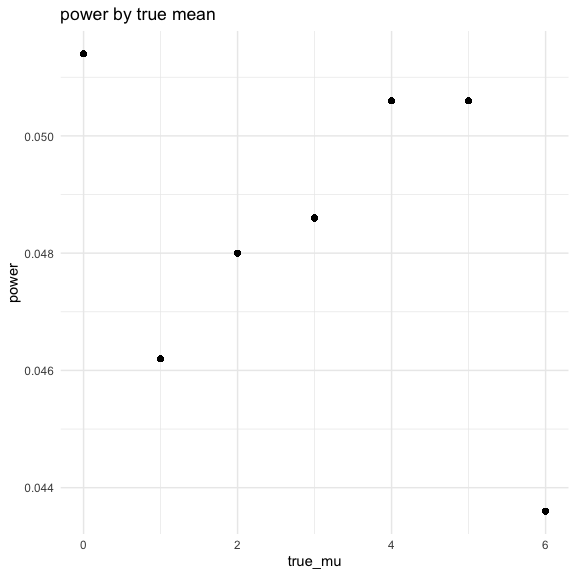
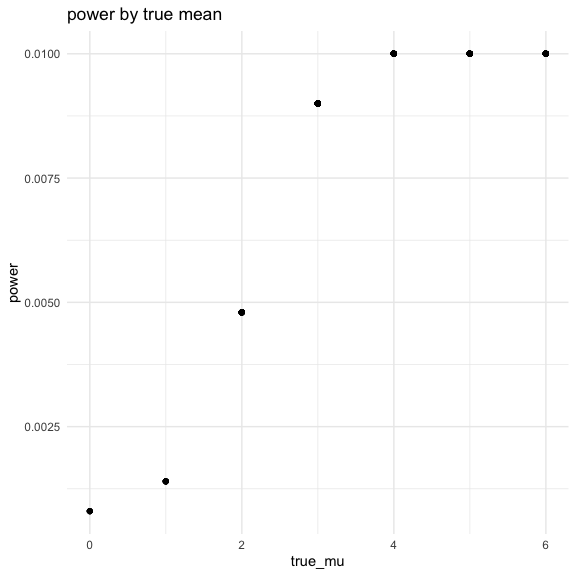
Fixed error in function that gave very weird plots.

diff --git a/p8105_hw5_np2619.md b/p8105_hw5_np2619.md
@@ -423,7 +423,7 @@ Simulation to explore power of a one sample t-test\!\!
 ttest_sim = function(mu) {
   sim_data = 
     tibble(
-    x = rnorm(mean = 0, n = 30, sd = 5),
+    x = rnorm(mean = mu, n = 30, sd = 5),
     )
   
   ttest = t.test(sim_data, mu = 0, alpha = 0.05)
@@ -441,7 +441,7 @@ ttest_sim = function(mu) {
 sim_results =
   tibble(true_mu = c(0:6)) %>% 
   mutate(
-    output_lists = map(.x = true_mu, ~rerun(5000, ttest_sim(mu = .x))),
+    output_lists = map(.x = true_mu, ~rerun(50, ttest_sim(mu = .x))),
     ttest_df = map(output_lists, bind_rows)
   ) %>% 
   select(-output_lists) %>% 
@@ -465,19 +465,22 @@ proportion =
     xlab = "true mean",
     ylab = "power"
   )
+
 proportion
 ```
 
 <img src="p8105_hw5_np2619_files/figure-gfm/unnamed-chunk-11-1.png" width="90%" />
 
-This outcome is very surprising to me. I would expect mu = 6 to be
+I originally had a very strange outcome, but fixed my function to
+produce this plot, which is expected. I would expect mu = 6 to be
 rejected more and have a higher power than all the other mu’s. I would
 expect all others to have decreasing power. I expect this because if
 true mu = 0 and H0: mu = 0, the likely hood of this being false in a
 sample of 5000 is very low, and thus the rejected/power would be a very
 low number. In contrast, if true mu = 6 and it is tested against H0:mu =
 0, we would expect the null to be rejected because they are not supposed
-to be the same, resulting in a higher power proportion.
+to be the same, resulting in a higher power proportion. This plot looks
+like a logarithmic curve.
 
 #### avg estimate of mu on y and true mu on x
 
@@ -499,10 +502,11 @@ avg_mu
 
 <img src="p8105_hw5_np2619_files/figure-gfm/unnamed-chunk-12-1.png" width="90%" />
 
-This is also very unexpected. I would have assumed to see a very direct,
-linear relationship between the average mu and true mu. This graph does
-not reflect this at all. With a normal sample size this large, we would
-expect to see the average average to be what is expected.
+Again, I fixed my function and the unexpected plots were changed to what
+were expected: I have assumed to see a very direct, linear relationship
+between the average mu and true mu. With a normal sample size this
+large, we would expect to see the average average to be what is
+expected.
 
 #### average estimates of rejected nulls
 
@@ -531,4 +535,11 @@ For this plot, we expect to see the average mu of the rejected nulls to
 increase as the true mu increases because the average of the samples
 should be around the inputted mu. Additionally, there would be a lot
 more datapoints for the higher true mu’s as they were more likely to be
-rejected. This would make an interesting density or violin plot.
+rejected. This would make an interesting density or violin plot. The
+sample average of mu across tests for which the null is rejected
+approximately very slightly greater or sometimes equal to the true value
+of mu, with the exception of 0. The rejected average mu is greater than
+the true mu. This makes sense because if the sample mu = true mu, it
+would not be rejected and in this plot. Unlike mu 1-6, where the sample
+mu’s were more likely to be rejected because they are supposed to be
+closer to the true mu, which is not equal to H0: mu= 0
